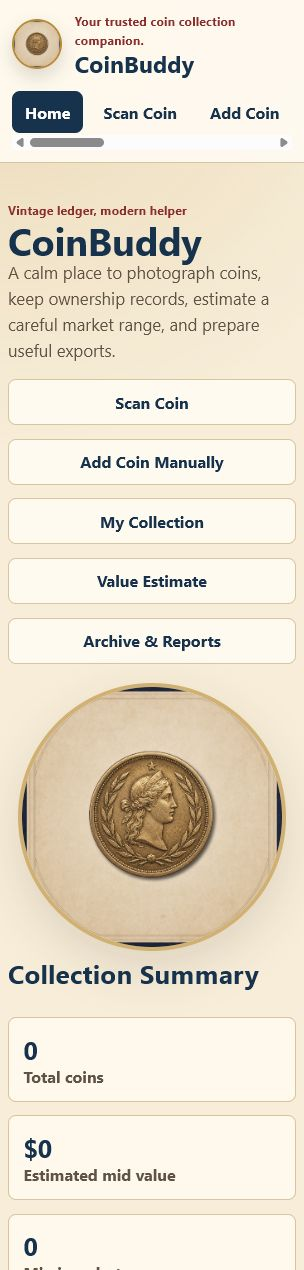
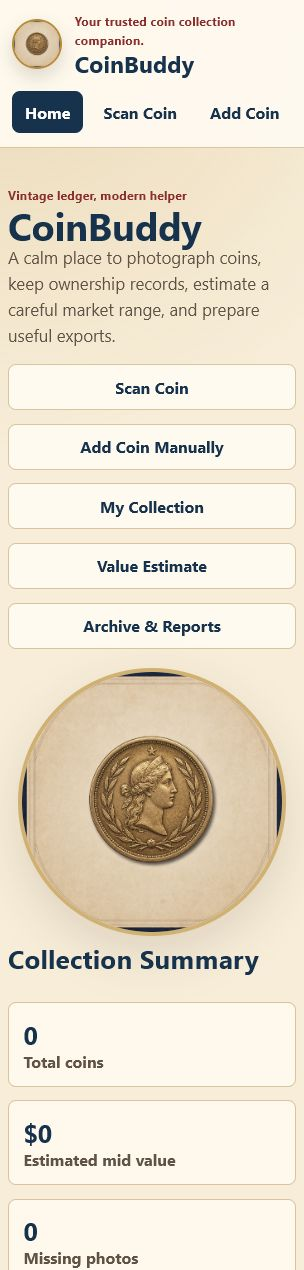
docs: add Codex handoff checkpoint

Changed region(s): [[0.0, 0.0921, 1.0, 1.0], [0.9474, 0.9213, 0.977, 0.952]]

diff --git a/index.html b/index.html
@@ -3,10 +3,30 @@
   <head>
     <meta charset="UTF-8" />
     <meta name="viewport" content="width=device-width, initial-scale=1.0" />
+    <meta
+      name="description"
+      content="CoinBuddy is a simple local-first coin collection companion for inventory, photos, value ranges, archive records, and learning."
+    />
+    <meta name="theme-color" content="#17324d" />
     <title>CoinBuddy</title>
+    <link rel="manifest" href="./manifest.webmanifest" />
+    <link rel="icon" href="./src/assets/coinbuddy-medallion.png" />
+    <link rel="stylesheet" href="./src/styles/styles.css" />
   </head>
   <body>
-    <div id="root"></div>
-    <script type="module" src="/src/main.tsx"></script>
+    <a class="skip-link" href="#app">Skip to content</a>
+    <header class="site-header">
+      <div class="brand-lockup">
+        <img src="./src/assets/coinbuddy-medallion.png" alt="" class="brand-mark" />
+        <div>
+          <p class="eyebrow">Your trusted coin collection companion.</p>
+          <h1>CoinBuddy</h1>
+        </div>
+      </div>
+      <nav class="primary-nav" aria-label="Primary navigation" id="primary-nav"></nav>
+    </header>
+    <main id="app" tabindex="-1"></main>
+    <div id="toast-region" class="toast-region" aria-live="polite" aria-atomic="true"></div>
+    <script type="module" src="./src/app/main.js"></script>
   </body>
 </html>

diff --git a/src/styles/styles.css b/src/styles/styles.css
@@ -203,6 +203,10 @@ main {
   padding: 1.2rem 0 3rem;
 }
 
+main:focus {
+  outline: none;
+}
+
 .page {
   display: grid;
   gap: 1rem;

diff --git a/docs/codex-build-handoff.md b/docs/codex-build-handoff.md
@@ -1,0 +1,90 @@
+# Codex Build Handoff
+
+## Checkpoint
+
+- Repo: `OmenRanger/coinbuddy`
+- Branch: `auto/hermes-codex-launch`
+- Remote base observed before this handoff prep: `1a840fa`
+- Earlier stable MVP checkpoint from prior Codex pass: `ce2757e`
+
+## Local Run Command
+
+```bash
+node scripts/serve.mjs
+```
+
+Open `http://127.0.0.1:4173`.
+
+## Test And Build Commands
+
+```bash
+node scripts/lint.mjs
+node --test src/tests/*.test.mjs
+node scripts/browser-test.mjs
+node scripts/build.mjs
+```
+
+## Implemented Features
+
+- Mobile-first vintage Americana ledger UI shell.
+- Home dashboard with main actions and collection summary.
+- Manual coin entry with friendly fields and save confirmation.
+- Scanner-style obverse/reverse image upload with previews.
+- Local-first inventory CRUD in browser storage.
+- My Collection search, sort, and filters.
+- Coin detail page with images, archive metadata, edit, delete confirmation, and comparable sales.
+- Manual value estimator with low, mid, high, confidence, source notes, and careful appraisal wording.
+- Archive & Reports with JSON export, CSV export, and printable report view.
+- Learn page with static beginner, storage, grading, fraud-awareness, and insurance-prep guidance.
+- Auctions page with curated source links and user-added source links/watch state.
+- Settings page with storage status, theme selection, export, and import.
+- README, roadmap, product docs, testing plan, release checklist, and Obsidian-compatible vault notes.
+
+## Intentionally Stubbed Or Manual
+
+- Coin scanning is image upload plus manual confirmation, not automated identification.
+- Value estimates are based on user-entered comparable sales, not live market APIs.
+- Auction discovery is curated/user-added links, not scraping or live feed ingestion.
+- Storage is local browser `localStorage`; Supabase/cloud sync is planned but not active.
+- Receipt/document uploads, PDF reports, and professional appraisal workflows are future work.
+- A Vite/React scaffold exists from the remote branch for possible migration, but the active runnable MVP currently uses the dependency-light static PWA entrypoint.
+
+## Known Limitations
+
+- Large photo collections may outgrow browser local storage.
+- Estimates are not official appraisals or guaranteed sale prices.
+- Coin grading and identification require human review or professional help.
+- Browser workflow testing depends on Playwright/Chrome availability in the local environment.
+- The app has not yet had Hermes' final product/docs/UX review pass merged.
+
+## Files Hermes Should Review First
+
+- `README.md`
+- `docs/product-brief.md`
+- `docs/ui-style-guide.md`
+- `docs/mother-friendly-ux-checklist.md`
+- `docs/storage-plan.md`
+- `docs/testing-plan.md`
+- `docs/codex-build-sequence.md`
+- `docs/codex-build-handoff.md`
+- `vault/CoinBuddy-Context.md`
+- `src/app/main.js`
+- `src/styles/styles.css`
+- `docs/screenshots/home-desktop.png`
+
+## Suggested Next Implementation Priorities
+
+1. Merge Hermes' final UX/product notes and resolve wording or flow mismatches.
+2. Decide whether to keep the static PWA for the first launch or migrate the active app to the Vite/React scaffold.
+3. Add a PDF-style report export after the JSON/CSV archive path is accepted.
+4. Improve scanner capture with camera constraints, cropping, and clearer front/back review.
+5. Add safe cloud sync with Supabase only after security boundaries and RLS are documented.
+6. Add permitted market-data integrations only after source legality and attribution are reviewed.
+
+## Stability Notes
+
+- Do not expose service-role keys or private credentials in client code.
+- Keep exports portable and human-readable.
+- Preserve manual fallbacks for every scanner or market-data workflow.
+- Confirm destructive actions.
+- Keep the home screen simple enough that the primary collector knows what to press first.

diff --git a/README.md b/README.md
@@ -36,35 +36,39 @@ No dependencies are required for the MVP. Use Node.js 20 or newer.
 node --version
 ```
 
-If your machine has npm, you can use `npm run ...`. In this Codex environment, npm was not available, so verification used Node directly.
+If your machine has npm, the matching `npm run ...` scripts are available. The direct Node commands below are the canonical MVP commands and do not require a package-manager install.
 
 ## Run Locally
 
 ```bash
-node --run dev
+node scripts/serve.mjs
 ```
 
 Then open:
 
 ```text
-http://localhost:4173
+http://127.0.0.1:4173
 ```
 
 ## Test
 
 ```bash
-node --run lint
-node --run test
-node --run test:browser
+node scripts/lint.mjs
+node --test src/tests/*.test.mjs
+node scripts/browser-test.mjs
 ```
 
 ## Build
 
 ```bash
-node --run build
+node scripts/build.mjs
 ```
 
 The static site is copied to `dist/`.
+
+## React/Vite Scaffold Note
+
+The branch currently includes an early React/Vite scaffold for a possible future migration. The active, verified MVP remains the dependency-light static PWA loaded by `index.html` and `src/app/main.js`.
 
 ## Data And Storage
 
@@ -73,6 +77,13 @@ CoinBuddy stores data in the browser's `localStorage` for the MVP. Coin photos a
 ## Roadmap
 
 See `ROADMAP.md` for phased work. The next major steps are cloud sync, real camera capture improvements, permitted market data integrations, report PDFs, and optional professional appraisal workflow support.
+
+Next recommended items:
+
+- Let Hermes complete the final product/docs/UX review.
+- Decide whether to launch the static PWA first or migrate the active app into the React/Vite scaffold.
+- Add PDF reports after JSON/CSV exports are accepted.
+- Add safe cloud sync only after Supabase security boundaries are reviewed.
 
 ## Known Limitations
 
